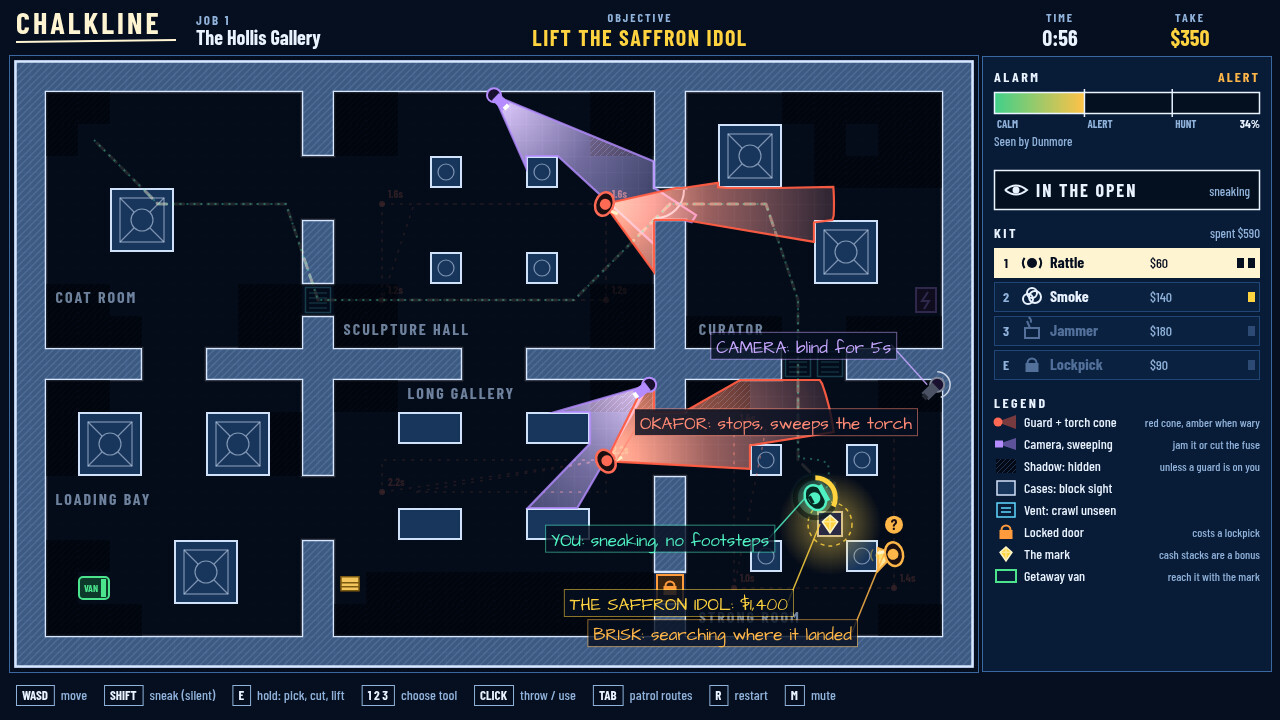
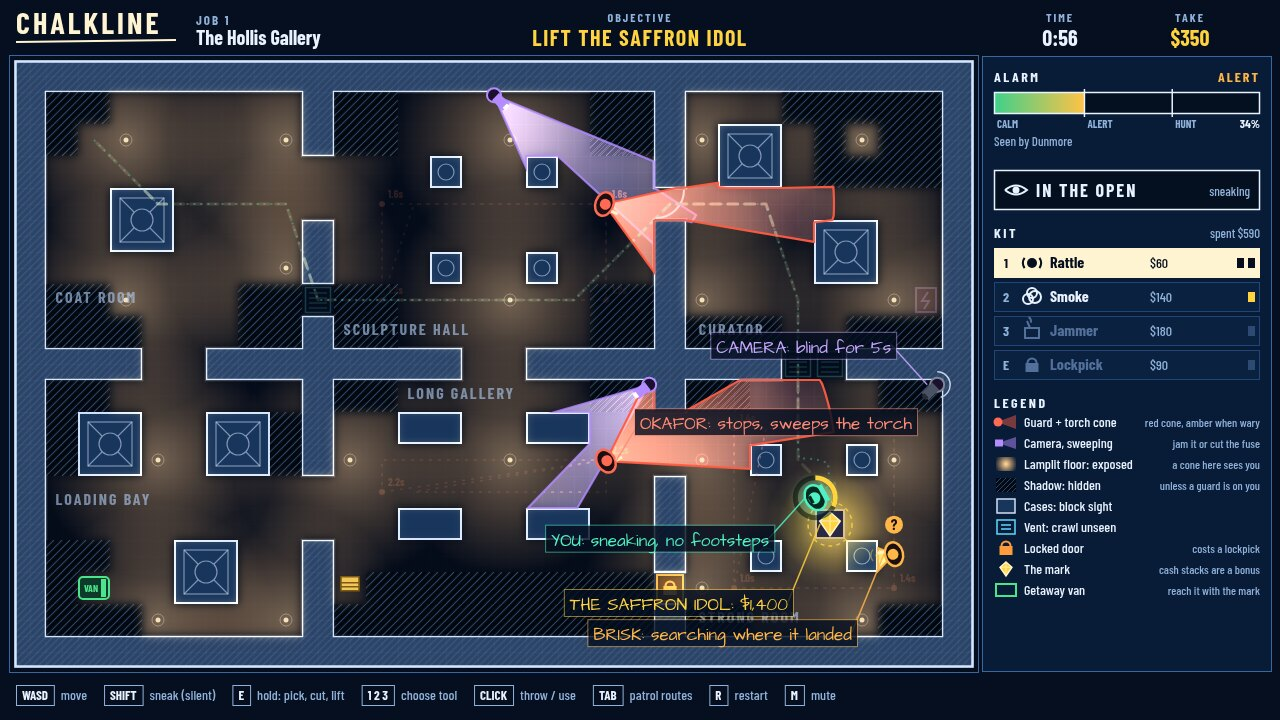
Lamplight: warm ceiling-lamp pools on open floor, hatched shadow over the night, spotlit mark, lamplit-floor legend row

diff --git a/game/src/lamps.js b/game/src/lamps.js
@@ -1,0 +1,118 @@
+// Night lighting on the map: the ceiling lamps that leave warm pools on open floor (where a cone
+// will see you), the hatching that keeps shadow pockets readable as safe ground in the dark, and
+// the spotlight over the mark. Painted once per job, then laid over the night layer each frame.
+import { TILE, COLS, ROWS, COLOR } from './config.js';
+import { TILE_KIND, tileAt } from './map.js';
+
+const K = TILE_KIND;
+const POOL = 118;
+
+function isLitFloor(kind) {
+  return kind === K.FLOOR || kind === K.OPEN || kind === K.LOCKED;
+}
+
+/** Lamp spots: every open-floor tile on a fixed 6 x 5 lattice, so each room gets its own pools. */
+export function lampSpots(map) {
+  const spots = [];
+  for (let r = 2; r < ROWS - 1; r += 5) {
+    for (let c = 3; c < COLS - 1; c += 6) {
+      let best = null;
+      for (const [dc, dr] of [[0, 0], [1, 0], [-1, 0], [0, 1], [0, -1], [1, 1], [-1, -1]]) {
+        if (isLitFloor(tileAt(map, c + dc, r + dr))) {
+          best = { x: (c + dc + 0.5) * TILE, y: (r + dr + 0.5) * TILE };
+          break;
+        }
+      }
+      if (best) spots.push(best);
+    }
+  }
+  return spots;
+}
+
+/** The warm pools, cut to open floor so shadow tiles, walls and cases stay dark. */
+export function paintLampLight(map) {
+  const canvas = document.createElement('canvas');
+  canvas.width = COLS * TILE;
+  canvas.height = ROWS * TILE;
+  const ctx = canvas.getContext('2d');
+  for (const lamp of lampSpots(map)) {
+    const pool = ctx.createRadialGradient(lamp.x, lamp.y, 4, lamp.x, lamp.y, POOL);
+    pool.addColorStop(0, 'rgba(255,200,130,0.42)');
+    pool.addColorStop(0.5, 'rgba(255,186,110,0.2)');
+    pool.addColorStop(1, 'rgba(255,190,120,0)');
+    ctx.fillStyle = pool;
+    ctx.fillRect(lamp.x - POOL, lamp.y - POOL, POOL * 2, POOL * 2);
+  }
+  const mask = document.createElement('canvas');
+  mask.width = canvas.width;
+  mask.height = canvas.height;
+  const maskCtx = mask.getContext('2d');
+  maskCtx.fillStyle = '#000';
+  for (let r = 0; r < ROWS; r += 1) {
+    for (let c = 0; c < COLS; c += 1) {
+      if (isLitFloor(tileAt(map, c, r))) maskCtx.fillRect(c * TILE, r * TILE, TILE, TILE);
+    }
+  }
+  ctx.globalCompositeOperation = 'destination-in';
+  ctx.filter = 'blur(5px)';
+  ctx.drawImage(mask, 0, 0);
+  ctx.filter = 'none';
+  ctx.globalCompositeOperation = 'source-over';
+  for (const lamp of lampSpots(map)) {
+    ctx.fillStyle = 'rgba(255,226,170,0.9)';
+    ctx.beginPath();
+    ctx.arc(lamp.x, lamp.y, 2.5, 0, Math.PI * 2);
+    ctx.fill();
+    ctx.strokeStyle = 'rgba(255,226,170,0.35)';
+    ctx.lineWidth = 1;
+    ctx.beginPath();
+    ctx.arc(lamp.x, lamp.y, 6, 0, Math.PI * 2);
+    ctx.stroke();
+  }
+  return canvas;
+}
+
+/** Cool hatching over shadow tiles, drawn above the night so safe ground still reads as safe. */
+export function paintShadowHatch(map) {
+  const canvas = document.createElement('canvas');
+  canvas.width = COLS * TILE;
+  canvas.height = ROWS * TILE;
+  const ctx = canvas.getContext('2d');
+  ctx.strokeStyle = COLOR.shadowHatch;
+  ctx.lineWidth = 1.2;
+  for (let r = 0; r < ROWS; r += 1) {
+    for (let c = 0; c < COLS; c += 1) {
+      if (tileAt(map, c, r) !== K.SHADOW) continue;
+      const x = c * TILE;
+      const y = r * TILE;
+      ctx.save();
+      ctx.beginPath();
+      ctx.rect(x, y, TILE, TILE);
+      ctx.clip();
+      ctx.beginPath();
+      for (let d = -TILE; d < TILE; d += 8) {
+        ctx.moveTo(x + d, y + TILE);
+        ctx.lineTo(x + d + TILE, y);
+      }
+      ctx.stroke();
+      ctx.restore();
+    }
+  }
+  return canvas;
+}
+
+/** A pale beam from above onto the mark's plinth, so the prize is the brightest thing on the map. */
+export function drawSpotlight(ctx, mark, time) {
+  const flicker = 0.92 + 0.08 * Math.sin(time * 2.3);
+  ctx.save();
+  ctx.globalCompositeOperation = 'lighter';
+  const beam = ctx.createRadialGradient(mark.x, mark.y, 6, mark.x, mark.y, 64);
+  beam.addColorStop(0, `rgba(255,224,120,${0.55 * flicker})`);
+  beam.addColorStop(0.5, `rgba(255,214,90,${0.22 * flicker})`);
+  beam.addColorStop(1, 'rgba(255,214,90,0)');
+  ctx.fillStyle = beam;
+  ctx.beginPath();
+  ctx.arc(mark.x, mark.y, 64, 0, Math.PI * 2);
+  ctx.fill();
+  ctx.restore();
+}

diff --git a/game/src/render.js b/game/src/render.js
@@ -5,6 +5,7 @@ import { guardRange, GUARD_STATE } from './guard.js';
 import { cameraOffline } from './camera.js';
 import { aimTool } from './tools.js';
 import { paintBlueprint, paintFloorMask, drawRoomLabels } from './blueprint.js';
+import { paintLampLight, paintShadowHatch, drawSpotlight } from './lamps.js';
 import { coneColors, coneShape, drawCone, drawNight, drawPatrolRoutes, drawPlan } from './cones.js';
 import { drawDoors, drawFuses, drawCash, drawMark, drawVan, drawSmokes, drawNoises } from './props.js';
 import { drawCamera, drawGuard, drawThief, drawTaskRing, drawFloaters, chalkNote } from './actors.js';
@@ -17,7 +18,7 @@ const G = GUARD_STATE;
 const blueprints = new Map();
 
 function blueprintFor(run) {
-  if (!blueprints.has(run.job.id)) blueprints.set(run.job.id, { paper: paintBlueprint(run.map, run.job), floor: paintFloorMask(run.map) });
+  if (!blueprints.has(run.job.id)) blueprints.set(run.job.id, { paper: paintBlueprint(run.map, run.job), floor: paintFloorMask(run.map), lamps: paintLampLight(run.map), hatch: paintShadowHatch(run.map) });
   return blueprints.get(run.job.id);
 }
 
@@ -59,7 +60,15 @@ export function drawWorld(ctx, run, time, mouse, options = {}) {
   const range = guardRange(run);
   const torches = run.guards.map((guard) => ({ guard, shape: coneShape(run, guard.x, guard.y, guard.heading, SIGHT.guardHalf, range) }));
   drawNight(ctx, sheets.floor, [...lenses, ...torches].map((cone) => cone.shape), run.phase === 'plan' ? 0.4 : 0.95);
+  if (run.phase !== 'plan') {
+    ctx.save();
+    ctx.globalCompositeOperation = 'lighter';
+    ctx.drawImage(sheets.lamps, 0, 0);
+    ctx.restore();
+  }
+  ctx.drawImage(sheets.hatch, 0, 0);
   drawRoomLabels(ctx, run.job);
+  if (!run.thief.carrying) drawSpotlight(ctx, run.map.mark, time);
   drawCash(ctx, run, time);
   drawMark(ctx, run, time);
   drawVan(ctx, run, time);

diff --git a/game/src/hud.js b/game/src/hud.js
@@ -228,6 +228,12 @@ function legendSwatch(ctx, kind, x, y) {
     ctx.fill();
     ctx.fillStyle = COLOR.camera;
     ctx.fillRect(x - 11, y - 3.5, 8, 7);
+  } else if (kind === 'lamp') {
+    const pool = ctx.createRadialGradient(x, y, 1, x, y, 11);
+    pool.addColorStop(0, 'rgba(255,214,150,0.95)');
+    pool.addColorStop(1, 'rgba(255,186,110,0.05)');
+    ctx.fillStyle = pool;
+    ctx.fillRect(x - 10, y - 7, 20, 14);
   } else if (kind === 'shadow') {
     ctx.fillStyle = COLOR.shadow;
     ctx.fillRect(x - 10, y - 7, 20, 14);
@@ -274,6 +280,7 @@ function legendSwatch(ctx, kind, x, y) {
 const LEGEND = [
   ['guard', 'Guard + torch cone', 'red cone, amber when wary'],
   ['camera', 'Camera, sweeping', 'jam it or cut the fuse'],
+  ['lamp', 'Lamplit floor: exposed', 'a cone here sees you'],
   ['shadow', 'Shadow: hidden', 'unless a guard is on you'],
   ['cover', 'Cases: block sight', ''],
   ['vent', 'Vent: crawl unseen', ''],
@@ -289,7 +296,7 @@ function drawLegend(ctx, x, y, w) {
     legendSwatch(ctx, kind, x + 12, rowY - 4);
     text(ctx, name, x + 30, rowY + 1, 14, COLOR.ink, 500);
     if (note) text(ctx, note, x + w, rowY + 1, 12, COLOR.dim, 500, 'right');
-    rowY += 22;
+    rowY += 21;
   }
 }
 

diff --git a/game/src/props.js b/game/src/props.js
@@ -88,9 +88,9 @@ export function drawMark(ctx, run, time) {
   ctx.fillStyle = '#2b2a44';
   ctx.strokeStyle = '#d9c38a';
   ctx.lineWidth = 2;
-  ctx.fillRect(mark.x - 12, mark.y - 12, 24, 24);
-  ctx.strokeRect(mark.x - 12, mark.y - 12, 24, 24);
-  if (!run.thief.carrying) drawGem(ctx, mark.x, mark.y, 9, COLOR.loot);
+  ctx.fillRect(mark.x - 14, mark.y - 14, 28, 28);
+  ctx.strokeRect(mark.x - 14, mark.y - 14, 28, 28);
+  if (!run.thief.carrying) drawGem(ctx, mark.x, mark.y, 12, COLOR.loot);
   ctx.restore();
 }
 

diff --git a/game/src/config.js b/game/src/config.js
@@ -24,9 +24,9 @@ export const COLOR = {
   gridMinor: 'rgba(130,180,240,0.05)',
   gridMajor: 'rgba(150,195,250,0.15)',
   shadow: '#030915',
-  shadowHatch: 'rgba(96,152,224,0.30)',
-  wall: '#3d5a82',
-  wallHatch: 'rgba(170,205,250,0.16)',
+  shadowHatch: 'rgba(110,170,240,0.38)',
+  wall: '#2b4468',
+  wallHatch: 'rgba(170,205,250,0.12)',
   wallEdge: '#d6e6ff',
   furniture: '#18355c',
   furnitureLine: '#cfe1f8',
